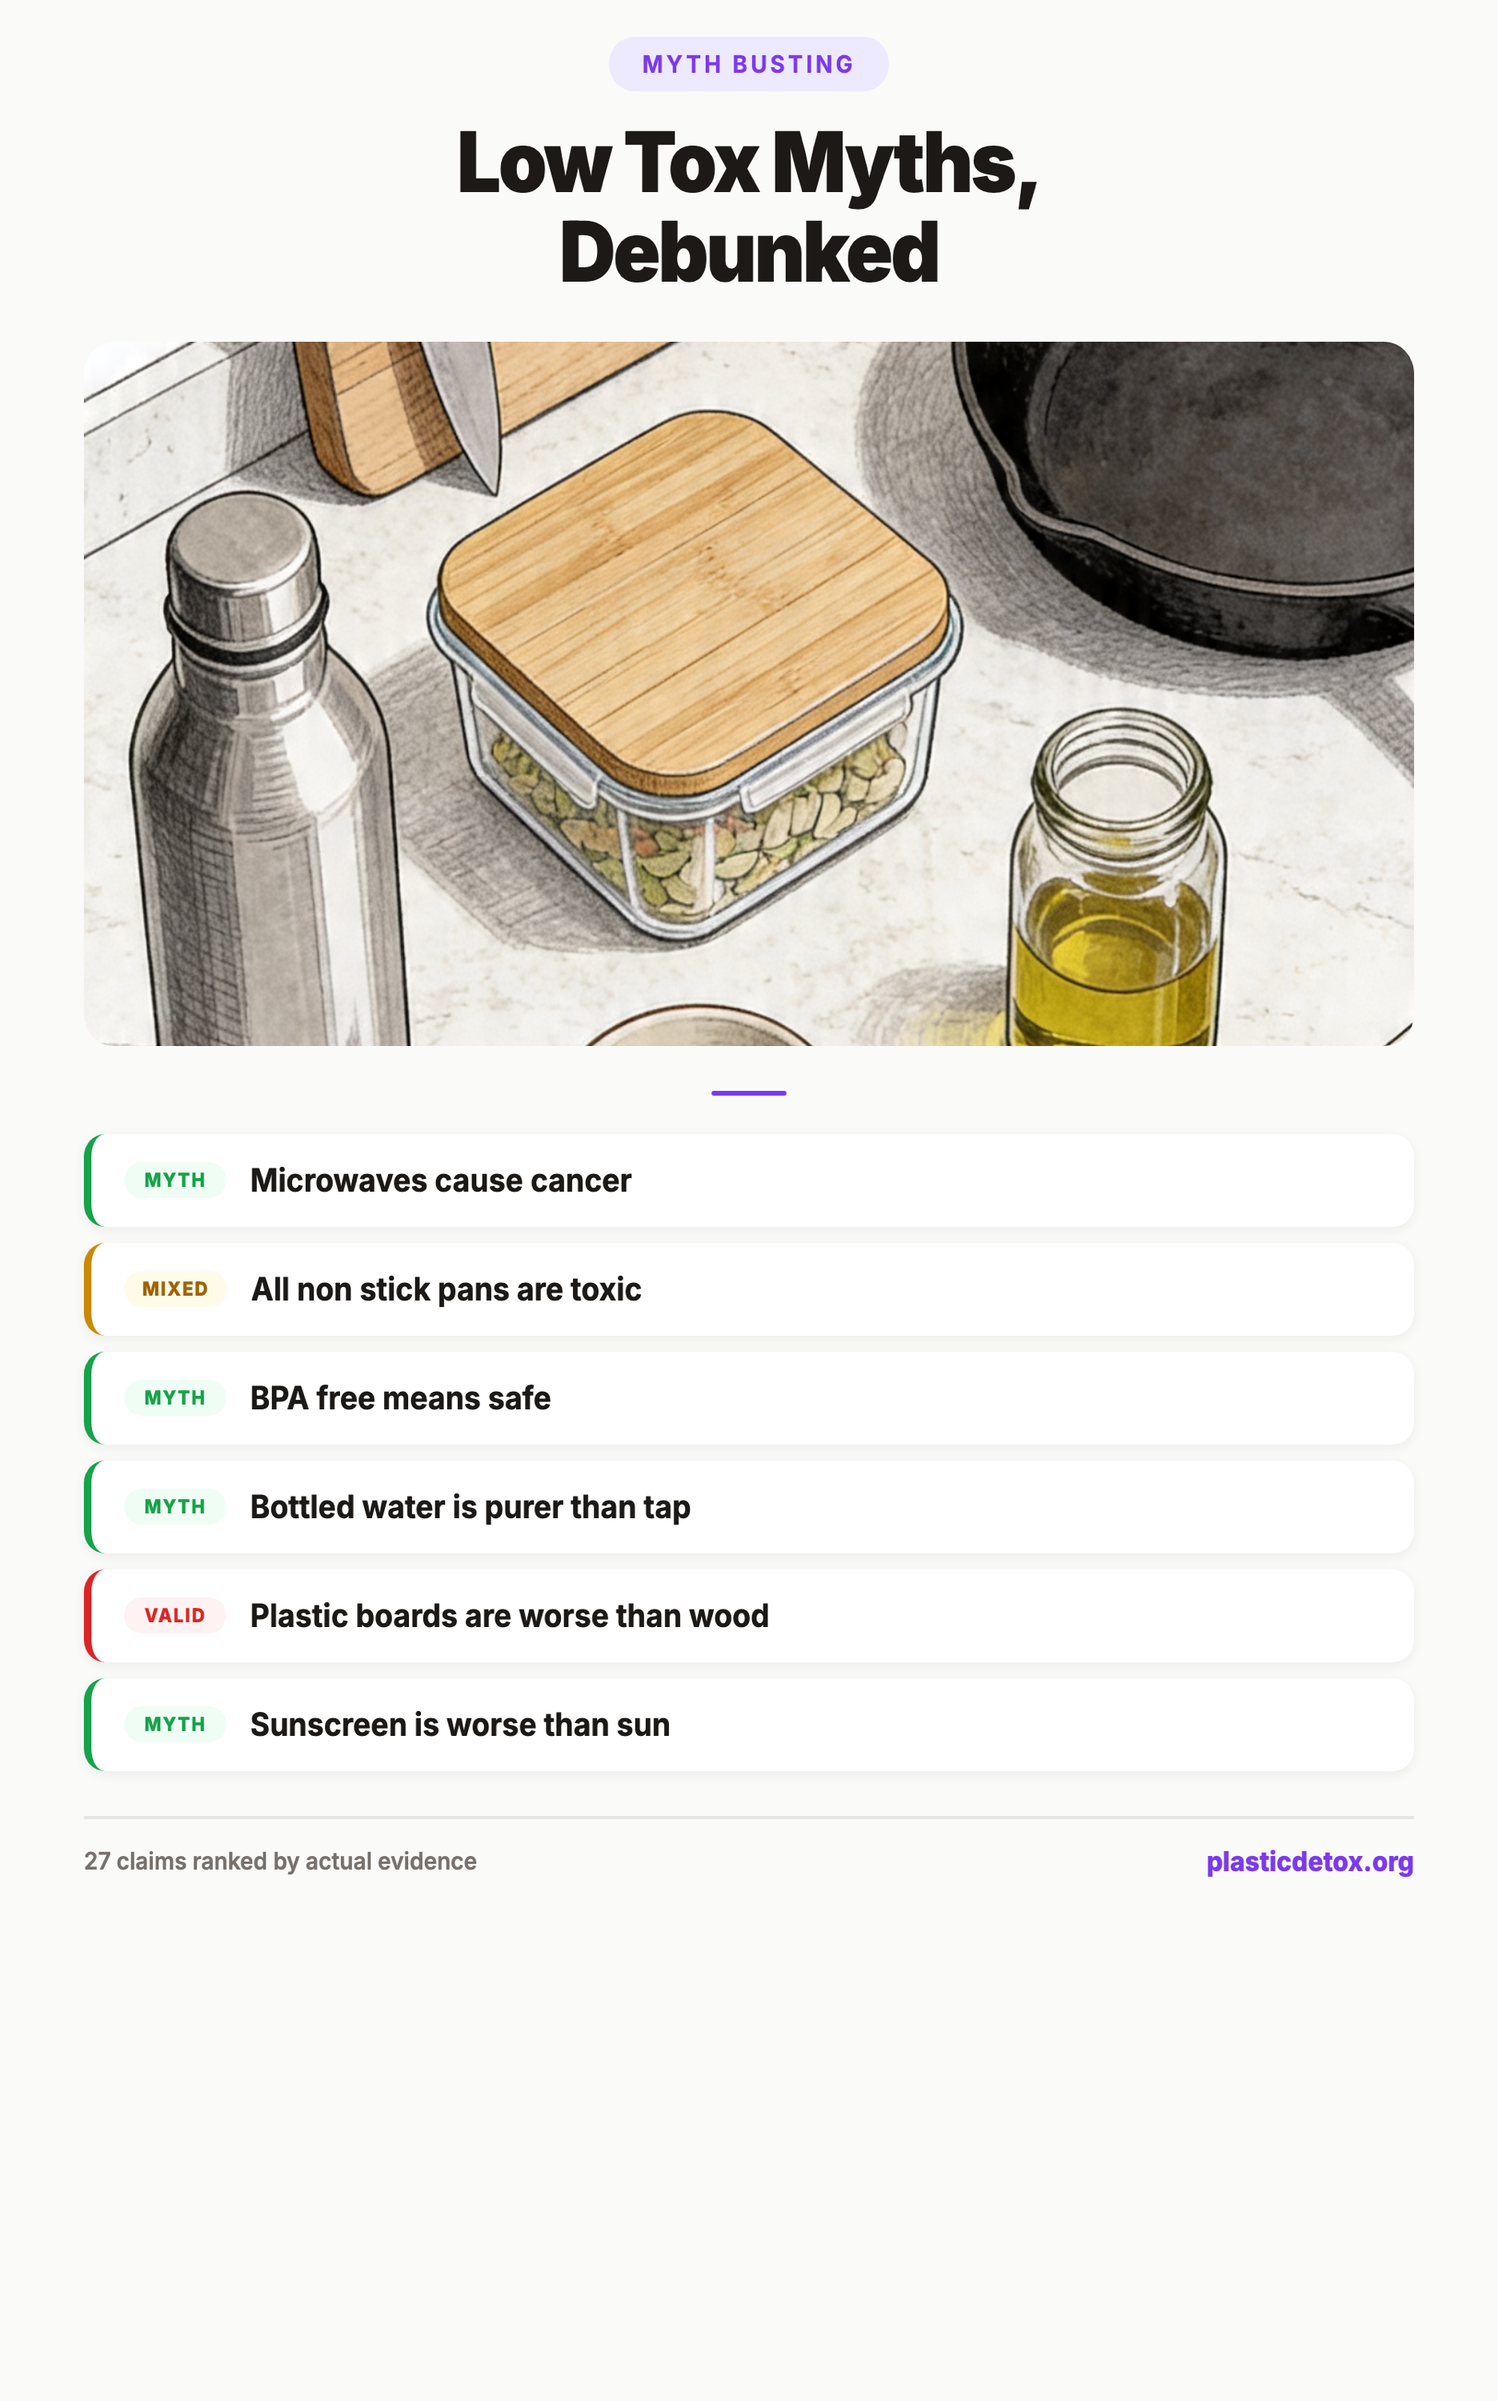
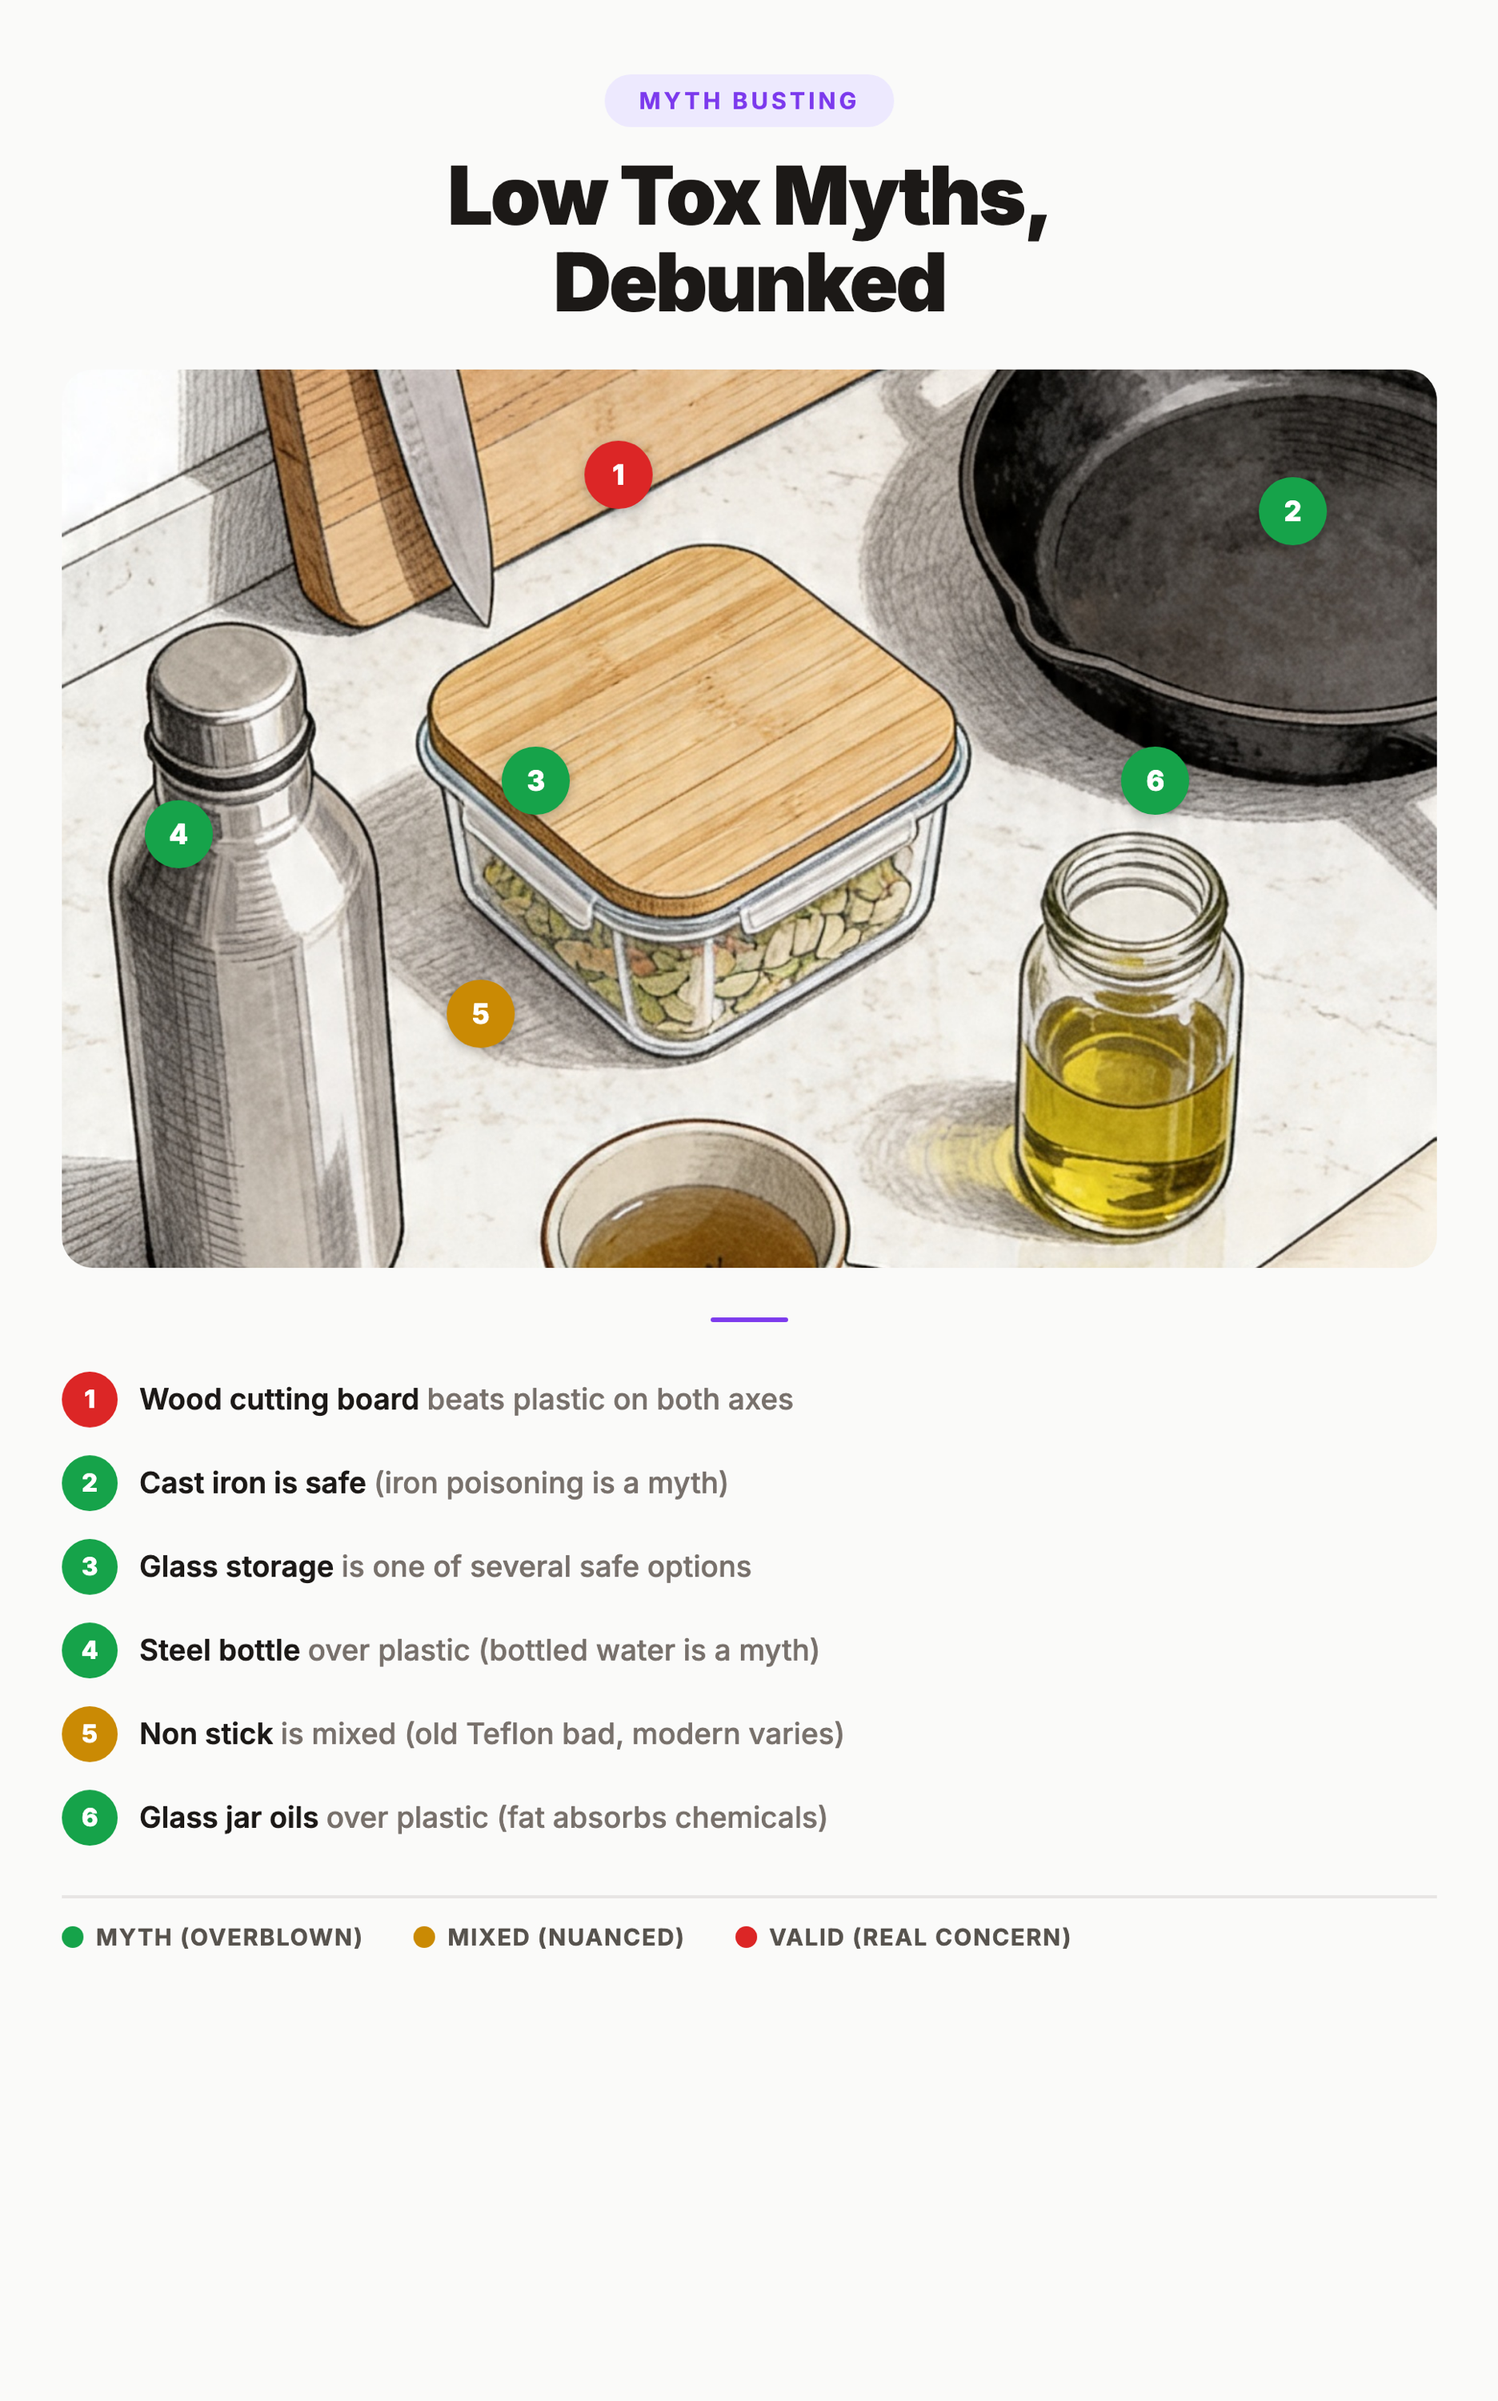
Redesign pin: dots on image with legend below instead of myth cards
Replaced the card-heavy pin with a cleaner design: colored numbered
dots on the kitchen illustration (green=myth, yellow=mixed, red=valid)
with a compact legend and color key below. Image constrained to 580px
max height so everything fits in 1872x3000.

diff --git a/images/myths-swap-pinterest.html b/images/myths-swap-pinterest.html
@@ -22,7 +22,7 @@
 
     .pin {
       width: 1000px;
-      height: 1550px;
+      min-height: 1550px;
       background: #fafaf9;
       display: flex;
       flex-direction: column;
@@ -53,67 +53,116 @@
       margin-bottom: 28px;
     }
 
+    .hero-wrap {
+      position: relative;
+      width: 100%;
+      margin-bottom: 32px;
+    }
+
     .hero-img {
       width: 100%;
-      max-height: 440px;
+      max-height: 580px;
       object-fit: cover;
       border-radius: 20px;
-      margin-bottom: 28px;
+      display: block;
     }
+
+    /* Numbered dots on the image */
+    .dot {
+      position: absolute;
+      width: 44px;
+      height: 44px;
+      border-radius: 50%;
+      color: #fff;
+      font-size: 18px;
+      font-weight: 800;
+      display: flex;
+      align-items: center;
+      justify-content: center;
+      box-shadow: 0 2px 8px rgba(0,0,0,0.25);
+      line-height: 1;
+    }
+    .dot-green { background: #16a34a; }
+    .dot-yellow { background: #ca8a04; }
+    .dot-red { background: #dc2626; }
 
     .divider {
       width: 50px;
       height: 3px;
       background: #7c3aed;
       border-radius: 2px;
-      margin-bottom: 24px;
+      margin-bottom: 28px;
     }
 
-    .myths {
+    /* Legend items */
+    .legend {
       width: 100%;
       display: flex;
       flex-direction: column;
       gap: 10px;
     }
 
-    .myth {
+    .legend-item {
       display: flex;
       align-items: center;
-      gap: 16px;
-      background: #fff;
-      border-radius: 14px;
-      padding: 16px 22px;
-      box-shadow: 0 2px 8px rgba(0,0,0,0.06);
-      border-left: 5px solid;
+      gap: 14px;
+      padding: 4px 0;
     }
 
-    .myth-green { border-left-color: #16a34a; }
-    .myth-yellow { border-left-color: #ca8a04; }
-    .myth-red { border-left-color: #dc2626; }
-
-    .badge {
-      display: inline-block;
-      font-size: 12px;
+    .legend-num {
+      width: 36px;
+      height: 36px;
+      min-width: 36px;
+      border-radius: 50%;
+      color: #fff;
+      font-size: 16px;
       font-weight: 800;
-      text-transform: uppercase;
-      letter-spacing: 0.08em;
-      padding: 4px 12px;
-      border-radius: 100px;
-      white-space: nowrap;
-      min-width: 68px;
-      text-align: center;
+      display: flex;
+      align-items: center;
+      justify-content: center;
+      line-height: 1;
     }
 
-    .badge-green { background: #f0fdf4; color: #16a34a; }
-    .badge-yellow { background: #fefce8; color: #a16207; }
-    .badge-red { background: #fef2f2; color: #dc2626; }
-
-    .myth-text {
-      flex: 1;
-      font-size: 20px;
-      font-weight: 700;
+    .legend-text {
+      font-size: 19px;
+      font-weight: 600;
       color: #1c1917;
       line-height: 1.3;
+    }
+
+    .legend-text span {
+      font-weight: 500;
+      color: #78716c;
+    }
+
+    /* Color key at bottom */
+    .color-key {
+      display: flex;
+      gap: 32px;
+      margin-top: 28px;
+      padding-top: 16px;
+      border-top: 2px solid #e7e5e4;
+      width: 100%;
+    }
+
+    .key-item {
+      display: flex;
+      align-items: center;
+      gap: 8px;
+    }
+
+    .key-dot {
+      width: 14px;
+      height: 14px;
+      border-radius: 50%;
+    }
+
+    .key-label {
+      font-size: 15px;
+      font-weight: 700;
+      text-transform: uppercase;
+      letter-spacing: 0.06em;
+      color: #57534e;
     }
 
     .footer {
@@ -121,9 +170,7 @@
       align-items: center;
       justify-content: space-between;
       width: 100%;
-      margin-top: 28px;
-      padding-top: 16px;
-      border-top: 2px solid #e7e5e4;
+      margin-top: auto;
     }
 
     .footer-stat {
@@ -143,34 +190,67 @@
   <div class="pin">
     <div class="headline-tag">Myth Busting</div>
     <h1>Low Tox Myths,<br>Debunked</h1>
-    <img class="hero-img" src="myth.png" alt="Kitchen countertop with wooden cutting board, cast iron skillet, glass storage container, stainless steel bottle, and tea infuser">
+
+    <div class="hero-wrap">
+      <img class="hero-img" src="myth.png" alt="">
+      <!-- Wooden cutting board -->
+      <div class="dot dot-red" style="top: 8%; left: 38%;">1</div>
+      <!-- Cast iron skillet -->
+      <div class="dot dot-green" style="top: 12%; right: 8%;">2</div>
+      <!-- Glass storage container -->
+      <div class="dot dot-green" style="top: 42%; left: 32%;">3</div>
+      <!-- Stainless steel bottle -->
+      <div class="dot dot-green" style="top: 48%; left: 6%;">4</div>
+      <!-- Tea with infuser -->
+      <div class="dot dot-yellow" style="top: 68%; left: 28%;">5</div>
+      <!-- Olive oil in glass jar -->
+      <div class="dot dot-green" style="top: 42%; right: 18%;">6</div>
+    </div>
+
     <div class="divider"></div>
-    <div class="myths">
-      <div class="myth myth-green">
-        <span class="badge badge-green">Myth</span>
-        <span class="myth-text">Microwaves cause cancer</span>
+
+    <div class="legend">
+      <div class="legend-item">
+        <div class="legend-num dot-red">1</div>
+        <div class="legend-text">Wood cutting board <span>beats plastic on both axes</span></div>
       </div>
-      <div class="myth myth-yellow">
-        <span class="badge badge-yellow">Mixed</span>
-        <span class="myth-text">All non stick pans are toxic</span>
+      <div class="legend-item">
+        <div class="legend-num dot-green">2</div>
+        <div class="legend-text">Cast iron is safe <span>(iron poisoning is a myth)</span></div>
       </div>
-      <div class="myth myth-green">
-        <span class="badge badge-green">Myth</span>
-        <span class="myth-text">BPA free means safe</span>
+      <div class="legend-item">
+        <div class="legend-num dot-green">3</div>
+        <div class="legend-text">Glass storage <span>is one of several safe options</span></div>
       </div>
-      <div class="myth myth-green">
-        <span class="badge badge-green">Myth</span>
-        <span class="myth-text">Bottled water is purer than tap</span>
+      <div class="legend-item">
+        <div class="legend-num dot-green">4</div>
+        <div class="legend-text">Steel bottle <span>over plastic (bottled water is a myth)</span></div>
       </div>
-      <div class="myth myth-red">
-        <span class="badge badge-red">Valid</span>
-        <span class="myth-text">Plastic boards are worse than wood</span>
+      <div class="legend-item">
+        <div class="legend-num dot-yellow">5</div>
+        <div class="legend-text">Non stick <span>is mixed (old Teflon bad, modern varies)</span></div>
       </div>
-      <div class="myth myth-green">
-        <span class="badge badge-green">Myth</span>
-        <span class="myth-text">Sunscreen is worse than sun</span>
+      <div class="legend-item">
+        <div class="legend-num dot-green">6</div>
+        <div class="legend-text">Glass jar oils <span>over plastic (fat absorbs chemicals)</span></div>
       </div>
     </div>
+
+    <div class="color-key">
+      <div class="key-item">
+        <div class="key-dot" style="background:#16a34a;"></div>
+        <span class="key-label">Myth (overblown)</span>
+      </div>
+      <div class="key-item">
+        <div class="key-dot" style="background:#ca8a04;"></div>
+        <span class="key-label">Mixed (nuanced)</span>
+      </div>
+      <div class="key-item">
+        <div class="key-dot" style="background:#dc2626;"></div>
+        <span class="key-label">Valid (real concern)</span>
+      </div>
+    </div>
+
     <div class="footer">
       <span class="footer-stat">27 claims ranked by actual evidence</span>
       <span class="footer-url">plasticdetox.org</span>
